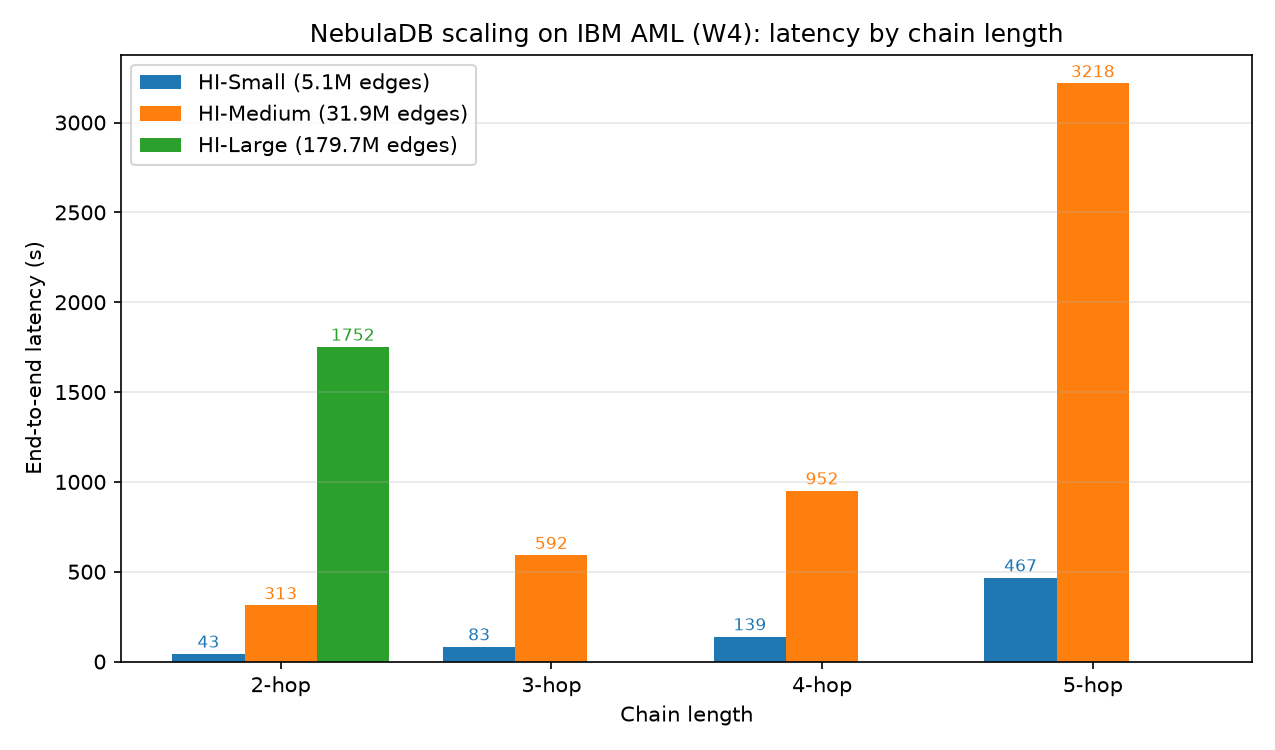
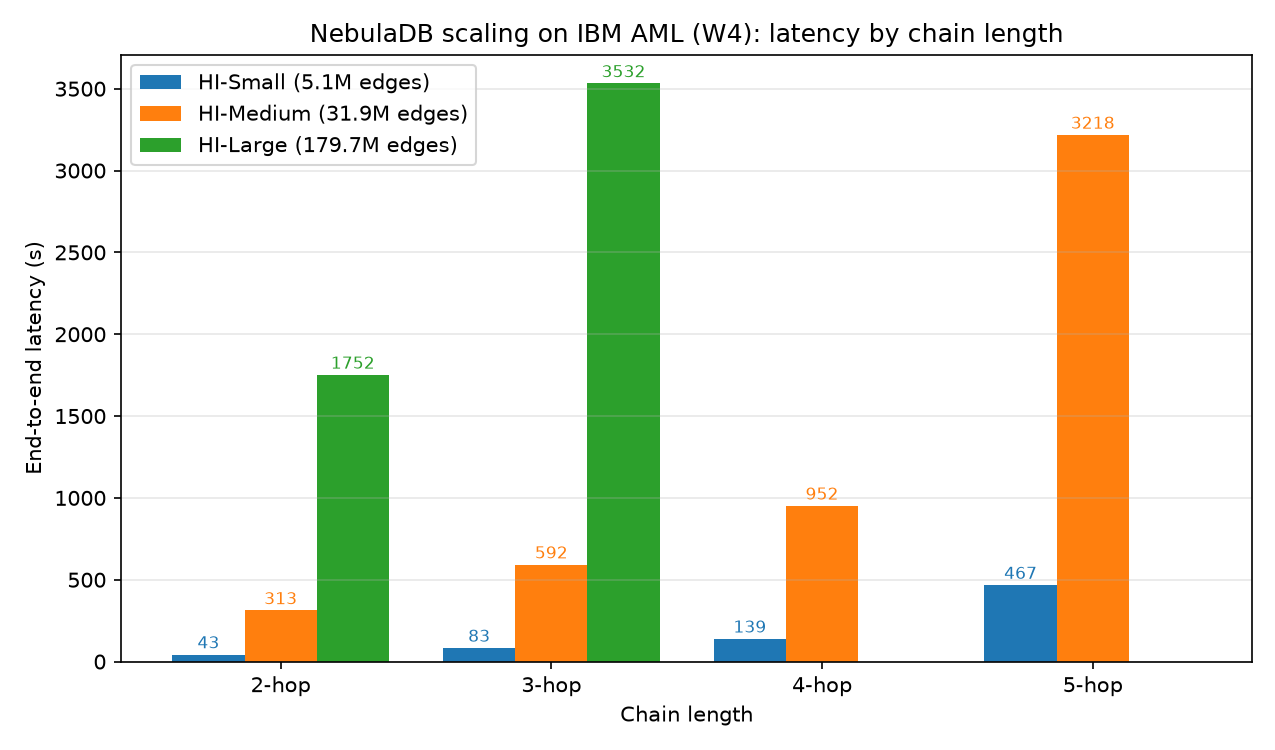
Land HI-Large 3-hop E2 point; mark 4-hop OOM
Ran the slim HI-Large chain at 3/4/5-hop (one-hop table built once, reused;
runner is OOM-tolerant with per-dataset hop short-circuit):

- 3-hop: completes -> 24,587,575 rows, ~59 min (mwj 3,504,427 ms)
- 4-hop: OOM (output/intermediate exceeds 471 GB)
- 5-hop: SKIPPED (auto-skipped after the 4-hop OOM)

Update results/e2_scaling/{raw_runs,summary}.csv with the 3-hop point and the
4-hop OOM / 5-hop SKIPPED markers (dataset ibm_aml_hi_large), and regenerate
e2_scaling.png. HI-Large now shows green bars at 2-hop (1752 s) and 3-hop
(3532 s); no bar at 4-/5-hop.

Note: the warm one-hop wall was ~244 s this run (buildNodeIndex 4.3 s) -- the
earlier 2.6 h was a one-time cold/page-cache-thrash artifact right after
generating the 5.3 GB slim txn, not an inherent cost. Corrected the plotter
docstring accordingly.

diff --git a/scripts/experiments/plot_e2_scaling.py b/scripts/experiments/plot_e2_scaling.py
@@ -8,11 +8,12 @@ end-to-end latency, grouped by chain length (hops), one bar per dataset
 (HI-Small, HI-Medium, HI-Large). Linear y-axis, seconds, with value labels.
 
 Only completed cells are plotted (rows with a numeric median_total_ms); OOM /
-SKIPPED cells are dropped automatically. HI-Large has only a 2-hop bar: its
-2-hop point was measured via the memory-reduced slim path
-(run_e2_scaling.py --slim-hi-large; column-trimmed hop table + sgx_app_slim),
-which is what let the previously-OOMing 2-hop complete. The 2-hop result
-cardinality is identical to the full hop table; higher hops were not run.
+SKIPPED cells are dropped automatically. HI-Large was measured via the
+memory-reduced slim path (run_e2_scaling.py --slim-hi-large; column-trimmed
+hop table + sgx_app_slim), which is what let the previously-OOMing chain run.
+Its 2-hop and 3-hop complete (bars shown); 4-hop OOMs and 5-hop is skipped, so
+HI-Large has no 4-/5-hop bar. Slim-path result cardinalities are identical to
+the full hop table.
 
 Usage:
   python3 scripts/experiments/plot_e2_scaling.py